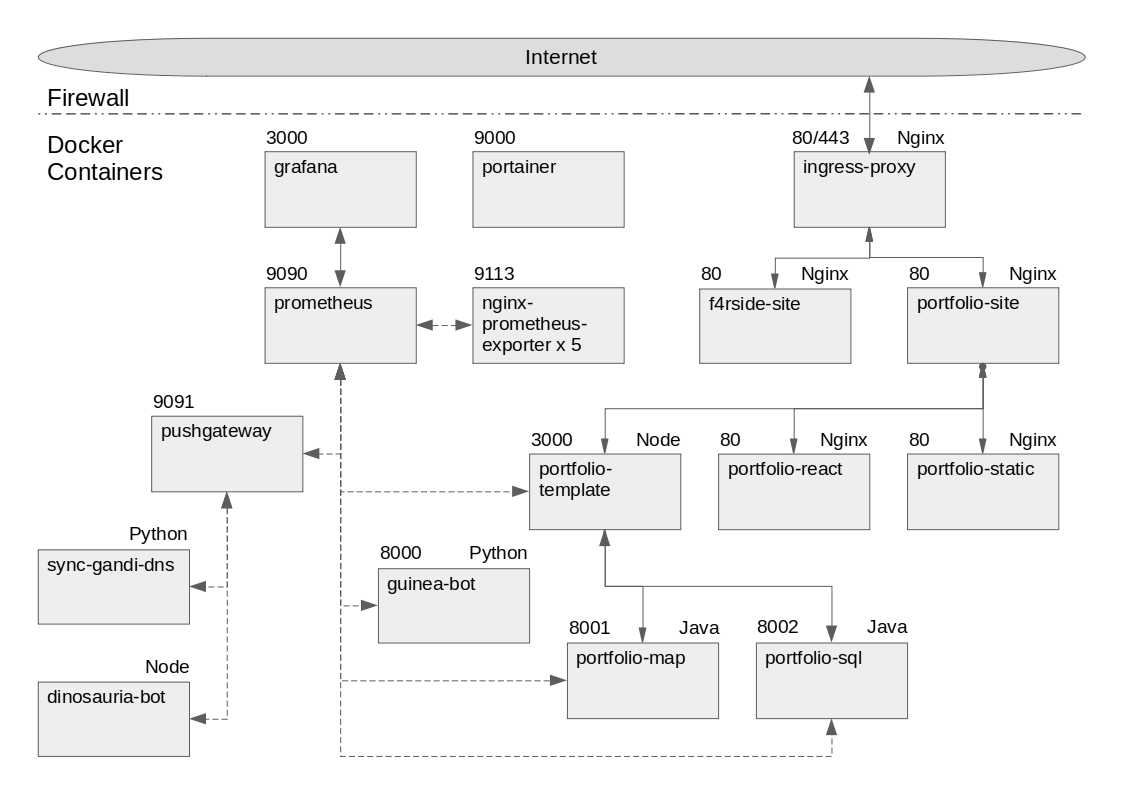
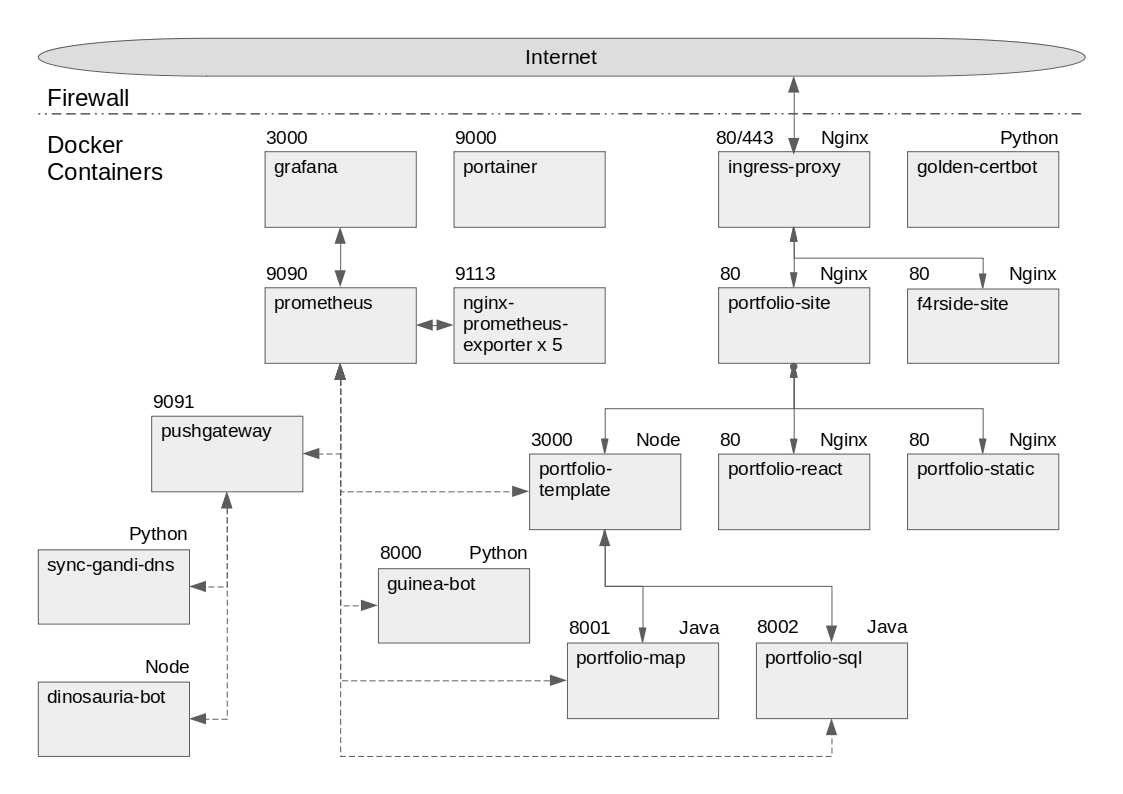
Update diagram and notes on Certbot usage.

diff --git a/README.md b/README.md
@@ -81,6 +81,11 @@ I would rather use these standard images than have to find or build a custom ima
 
 I have started to define golden images for re-use and as best practice.
 
+#### golden-certbot
+
+I created this image to implement [Certbot](https://certbot.eff.org/) with the [Gandi authentication plugin](https://github.com/obynio/certbot-plugin-gandi) 
+in an ARM/V7 image. This allows me to use [Let's Encrypt](https://letsencrypt.org/) for my certificate renewals. 
+
 #### golden-nginx
 
 I created this image for all my Nginx instances, it includes configuration files from my fork of [Nginx Server Configs](https://github.com/RatJuggler/server-configs-nginx)
@@ -106,7 +111,9 @@ In no particular order:
 
 ### Note on security
 
-API keys are injected into the required containers using Docker Swarm secrets. Site certificates and private keys are also injected 
-into the ingress proxy container using secrets, which is better than having them bundled into the image itself but still comes with 
-its own problems. Secrets can't be updated in Docker Swarm so updating the certificate's means creating new secrets and then 
-spinning up a new ingress proxy container referencing the new secrets.
+API keys are injected into the required containers using Docker Swarm secrets. Site certificates and private keys are either 
+injected into the ingress proxy container using secrets or via a shared volume, having been generated by the Certbot image. 
+
+Secrets can't be updated in Docker Swarm so updating the certificate's means creating new secrets and then spinning up a new 
+ingress proxy container referencing the new secrets. Having the certificates in a shared volume is less secure but means the
+ingress proxy only needs to be restarted when they are updated.
